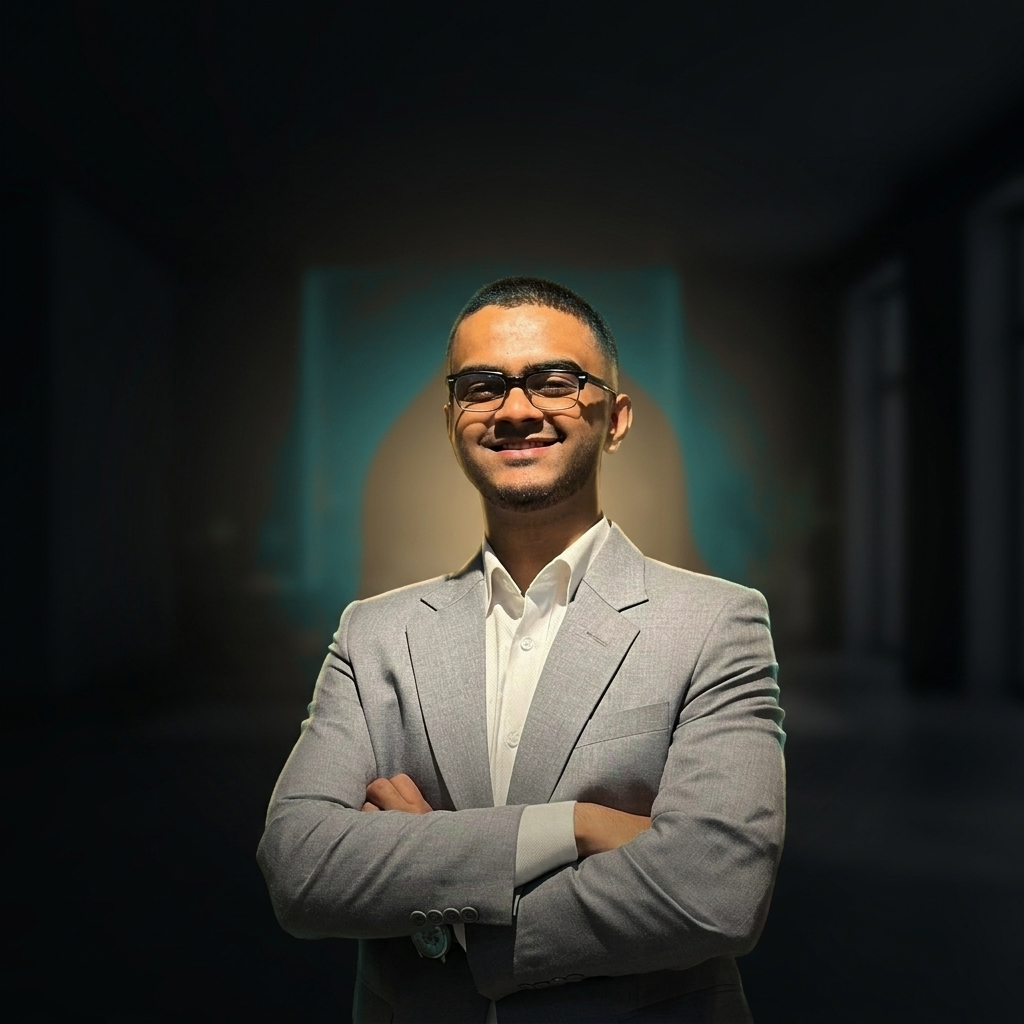
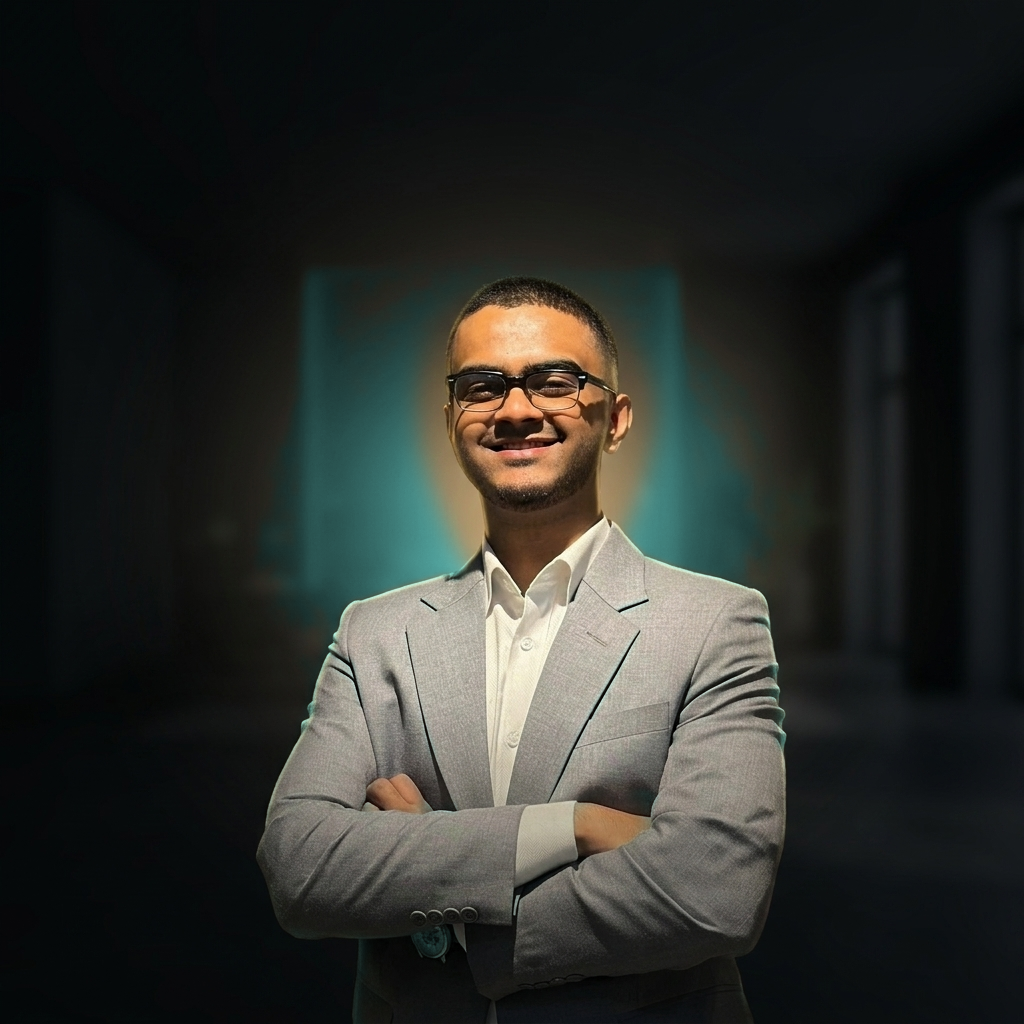
Remove the gold the grade was still leaving behind his head
The bright core of the glow was never being graded. The mask had an
"exclude skin" gate rejecting warmth above 0.40, and that core sits at
0.50-0.60 — so the very brightest, most visible gold was the one part the
grade skipped.

Measuring the scene properly:

    suit / shirt / lapel / collar   0.07 - 0.25   (neutral, protect)
    background glow                 0.22 - 0.60   (the target)

Suit and shirt separate from the glow on warmth alone, so they need no
silhouette. Only skin needs protecting, and only spatially — shadowed skin
cannot be found by colour, the shadowed jaw sitting at 0.44 against the
wall's 0.40.

- Drop the upper warmth gate, the highlight gate and the whole-subject
  silhouette. The silhouette was the wrong tool: it also swallowed the
  bright wall panels (L up to 0.93 passed its brightness seed), and eroding
  it to free them released his rim light into a neon edge.
- Protect face/neck and hands by growing outward from unambiguously-skin
  pixels — far enough to reach shadowed skin (~46px), well short of the
  glow (~150px). Head and hands grow separately; the hands are a thin band
  that dissolves at the head's radius.
- Keep the lower warmth gate at 0.26-0.36 so neutral fabric is untouched.

Background is now fully graded with no gold; skin, suit, shirt and collar
match the ungraded master.

diff --git a/scripts/regrade-hero.py b/scripts/regrade-hero.py
@@ -56,24 +56,31 @@ def blur(m, radius):
     return np.asarray(img.filter(ImageFilter.GaussianBlur(radius))).astype(np.float32) / 255.0
 
 
-def subject_mask(L, warm):
-    """Rough silhouette of the person, used to keep the grade off him entirely.
+def skin_mask(L, warm):
+    """Face/neck and hands, grown outward from unambiguously-skin pixels.
 
-    Warmth alone cannot protect shadowed skin: the shadowed jaw sits at 0.44
-    and the wall at 0.40, and a spatial grow from confident skin does not
-    separate them either — that jaw is as far from lit skin as the wall is.
-    But the subject is a single solid region and the wall is not, so seeding
-    on "brighter than the wall or clearly skin" and closing the holes gives a
-    silhouette that covers shadowed skin, the collar and the suit.
+    Only skin needs protecting spatially. Suit and shirt protect themselves by
+    being neutral — warmth 0.07-0.25, against the glow's 0.22-0.60 — and
+    folding them into a silhouette caused more trouble than it solved.
 
-    Closing the holes inflates the outline past his edge, which would leave a
-    gold band hugging him, so it is eroded back before a tight feather.
+    Shadowed skin cannot be found by colour: the shadowed jaw sits at warmth
+    0.44 against the wall's 0.40. It has to be reached by growing outward from
+    lit skin far enough to cover it (~46px) while stopping short of the glow,
+    which is ~150px away.
+
+    Head and hands grow separately — the hands are a thin horizontal band and
+    dissolve under a radius large enough for the head.
     """
-    seed = ((L > 0.32) | (warm > 0.55)).astype(np.float32)
-    solid = (blur(seed, 26) > 0.42).astype(np.float32)   # close glasses/hair/shadow
-    solid = (blur(solid, 18) > 0.40).astype(np.float32)  # smooth the outline
-    solid = (blur(solid, 12) > 0.88).astype(np.float32)  # erode back onto him
-    return blur(solid, 3)                                # tight feather
+    conf = ((warm > 0.62) & (L > 0.15)).astype(np.float32)
+    head = conf.copy()
+    head[700:] = 0
+    hands = conf.copy()
+    hands[:700] = 0
+    grown = np.maximum(
+        (blur(head, 46) > 0.14).astype(np.float32),
+        (blur(hands, 26) > 0.13).astype(np.float32),
+    )
+    return blur(grown, 10)
 
 
 def main():
@@ -82,12 +89,11 @@ def main():
     L = 0.299 * R + 0.587 * G + 0.114 * B
     warm = (R - B) / (L + 1e-3)
 
-    mask = (
-        smoothstep(0.24, 0.36, warm)          # exclude neutral fabric
-        * (1 - smoothstep(0.40, 0.62, warm))  # exclude skin
-        * (1 - smoothstep(0.50, 0.72, L))     # exclude highlights
-        * (1 - subject_mask(L, warm))         # exclude the subject outright
-    )
+    # Grade what is actually warm, and keep it off skin. There is deliberately
+    # no upper warmth bound: the earlier "exclude skin" gate at 0.40-0.62 also
+    # excluded the bright core of the glow, which lives at 0.50-0.60 — that was
+    # the gold that survived behind his head.
+    mask = smoothstep(0.26, 0.36, warm) * (1 - skin_mask(L, warm))
     # Along the hair/wall boundary single pixels alternate between hair and
     # wall, so the mask alternates too and the grade speckles. A small blur
     # resolves it into a clean edge.
